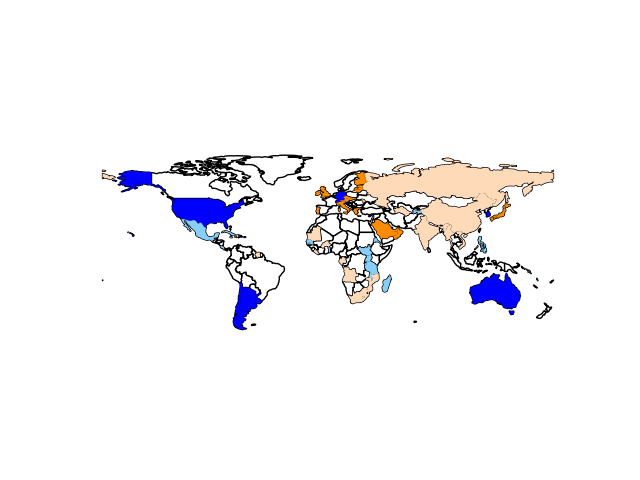
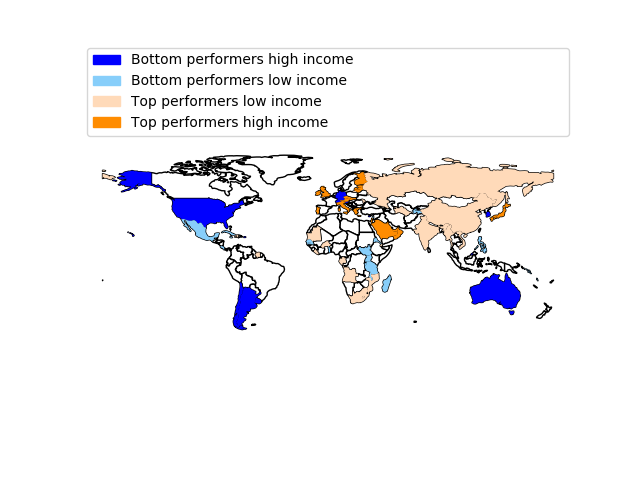
image

Changed region(s): [[0.125, 0.0938, 0.5625, 0.2812]]

diff --git a/presentation/gis.py b/presentation/gis.py
@@ -2,6 +2,7 @@ import geopandas as gpd
 import pandas as pd
 import numpy as np
 import matplotlib.pyplot as plt
+import matplotlib.patches as mpatches
 
 world = gpd.read_file(gpd.datasets.get_path('naturalearth_lowres'))
 world = world[(world.pop_est > 0) & (world.name != "Antarctica")]
@@ -87,10 +88,15 @@ base = world.plot(color='white', edgecolor='black')
 plt.axis("off")
 ###
 colors = ["b", "lightskyblue", "peachpuff", "darkorange"]
+labels = [f[:-4].replace("_", " ").capitalize() for f in files]
 for i in range(len(countries)):
     c = countries[i]
     world = gpd.read_file(gpd.datasets.get_path('naturalearth_lowres'))
     world = world[(world.pop_est > 0) & (world.name != "Antarctica")]
     world = world[world.name.isin(np.asarray(c[c.columns[0]]))]
-    t = world.plot(ax=base, color=colors[i])
+    t = world.plot(ax=base, color=colors[i], label=labels[i], legend=True)
+    plt.legend(loc="upper right")
+
+patch = [mpatches.Patch(color=c, label=l) for c, l in zip(colors, labels)]
+plt.legend(handles=patch, bbox_to_anchor=(0., 1.02, 1., .102), loc=3, mode="expand")
 plt.savefig("dsproject17/presentation/all.png")
